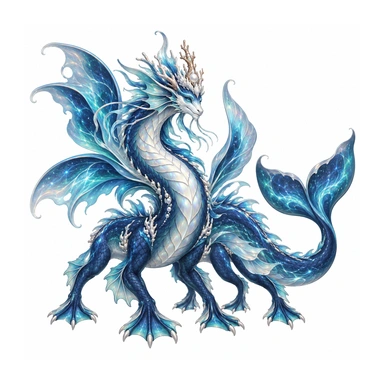
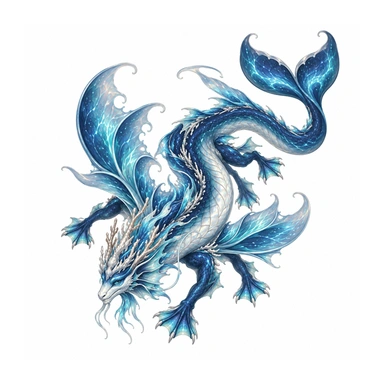
Give fourth-tier Siplings dynamic poses

diff --git a/app/creature-art.tsx b/app/creature-art.tsx
@@ -3,7 +3,7 @@ import type {Creature} from '@/lib/creatures';
 export function CreatureArt({creature}:{creature:Creature}){
  return <div data-rarity={creature.rarity} data-stage={creature.stage} className={'creature-art creature-stage-'+creature.stage}>
   {/* Each entry owns a complete image; no atlas windows or runtime cropping. */}
-  <img className="creature-sprite" src={`/siplings/${creature.id}.webp?v=transcendent-20260924`} alt={creature.name} width={384} height={384} loading="lazy" decoding="async"/>
+  <img className="creature-sprite" src={`/siplings/${creature.id}.webp?v=dynamic-poses-20260925`} alt={creature.name} width={384} height={384} loading="lazy" decoding="async"/>
  </div>
 }
 export function MysteryArt(){return <div className="mystery-art" role="img" aria-label="Undiscovered Sipling"><Sparkles size={20}/><span>?</span><small>A little mystery</small></div>}
